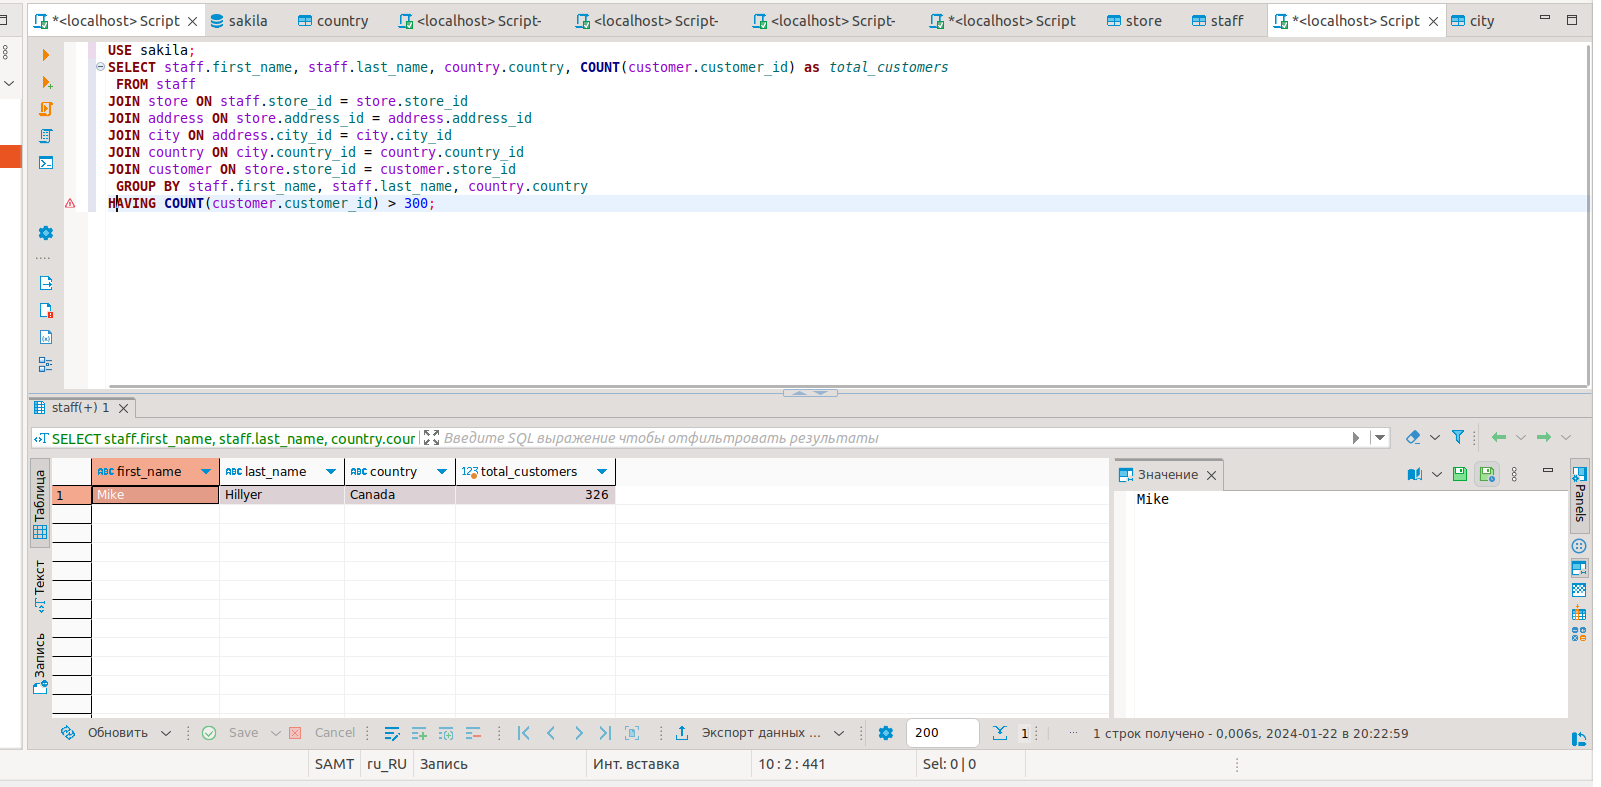
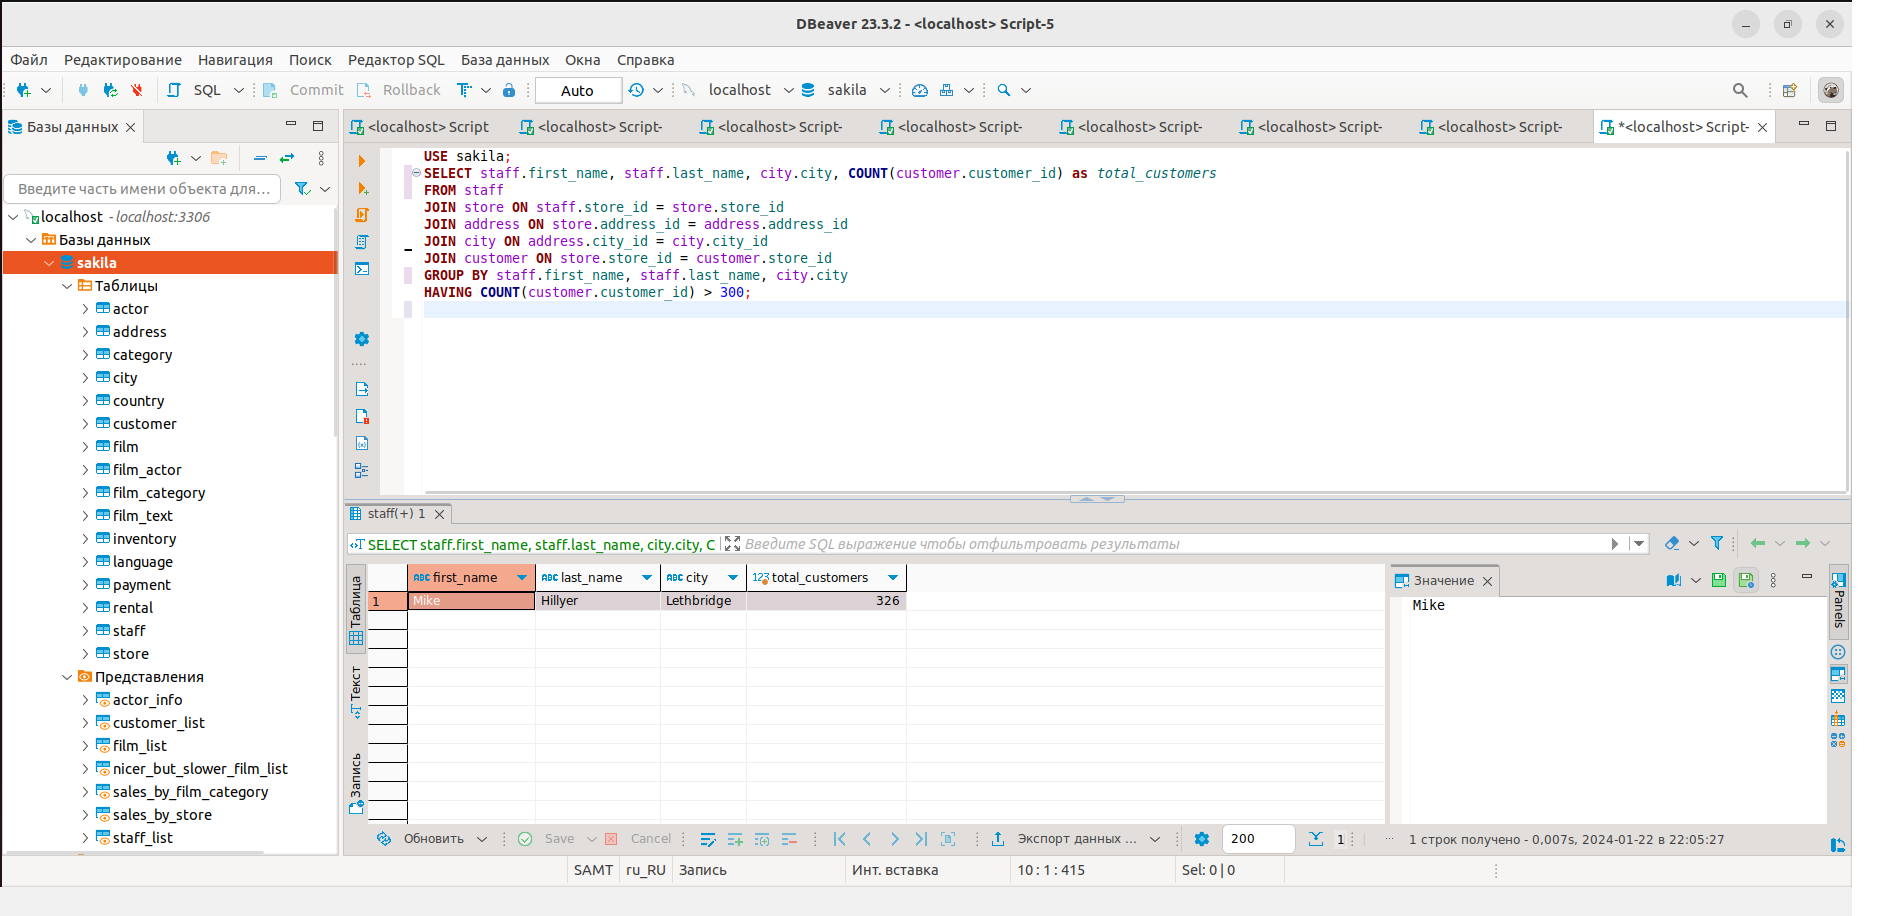
/

Changed region(s): [[0.0, 0.0, 0.9994, 0.9759]]

diff --git a/README.md b/README.md
@@ -37,11 +37,36 @@
 Найдите фильмы, которые ни разу не брали в аренду.
 
 ### Решение 1
+```
+USE sakila;
+SELECT staff.first_name, staff.last_name, city.city, COUNT(customer.customer_id) as total_customers
+FROM staff
+JOIN store ON staff.store_id = store.store_id
+JOIN address ON store.address_id = address.address_id
+JOIN city ON address.city_id = city.city_id
+JOIN customer ON store.store_id = customer.store_id
+GROUP BY staff.first_name, staff.last_name, city.city
+HAVING COUNT(customer.customer_id) > 300;
+```
 ![alt text](https://github.com/Replica63/SQLv2/blob/main/img/1.png)
 
 ### Решение 2
+```
+USE sakila;
+SELECT COUNT(*) 
+FROM film 
+WHERE length > (SELECT AVG(length) FROM film);
+```
 ![alt text](https://github.com/Replica63/SQLv2/blob/main/img/2.png)
 
 ### Решение 3
-
+```
+USE sakila;
+SELECT YEAR(payment_date) AS year, MONTH(payment_date) AS month, COUNT(DISTINCT rental.rental_id) as rental_count, SUM(amount) as total_payment
+FROM payment
+JOIN rental ON payment.rental_id = rental.rental_id
+GROUP BY year, month
+ORDER BY total_payment DESC
+LIMIT 1;
+```
 ![alt text](https://github.com/Replica63/SQLv2/blob/main/img/3.png)
